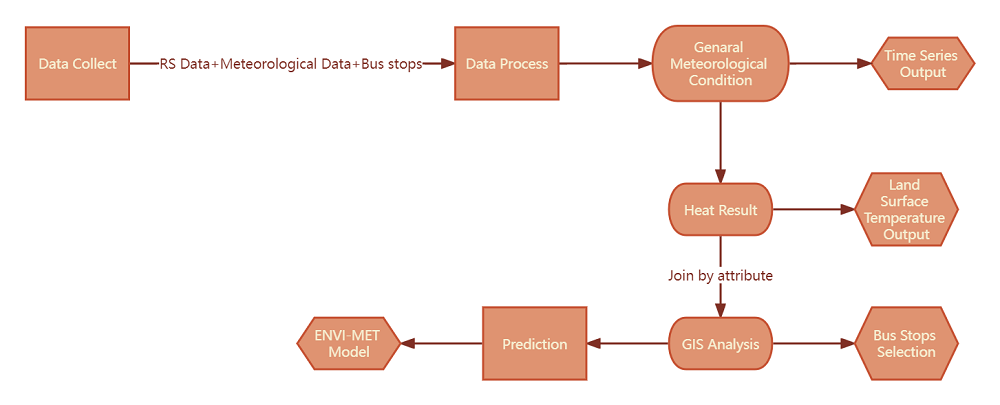
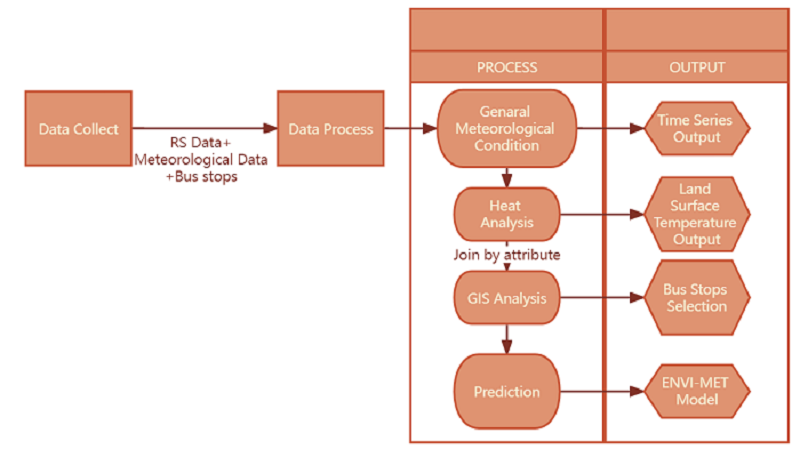
new

diff --git a/index.html b/index.html
@@ -4,7 +4,7 @@
     <title>Green Bus Stop Project</title>
     <meta charset="utf-8" />
     <meta name="author" content="" />
-    <script src="libs/header-attrs-2.17/header-attrs.js"></script>
+    <script src="libs/header-attrs-2.20/header-attrs.js"></script>
     <link href="libs/remark-css-0.0.1/default.css" rel="stylesheet" />
     <link href="libs/remark-css-0.0.1/default-fonts.css" rel="stylesheet" />
   </head>
@@ -177,17 +177,15 @@ Planting trees for some hot bus stops to provide shade for people
 
 ---
 # Methodology-Overall
+- Data
+&lt;img src="image/DATA.jpg" width="75%" style="display: block; margin: auto;" /&gt;
+- Process
 
-Data sets for detecting and classifying bus stops which have high temperature problem
-&lt;img src="image/DATA.jpg" width="70%" style="display: block; margin: auto;" /&gt;
-
-Progress
-&lt;img src="image/Process.jpg" width="80%" style="display: block; margin: auto;" /&gt;
+&lt;img src="image/Process.jpg" width="70%" style="display: block; margin: auto;" /&gt;
  
 ---
 # Methodology - General Meteorological condition
 .pull-left[
-- Data: 
 To get general condition: &lt;/br&gt;
 1. Use National Centers for Environmental Information time series data to get average/ highest temperature condition in Phoenix from year 2017 to 2022; &lt;/br&gt;
 2. Use National Centers for Environmental Information mapping data to get high heat distribution in Phoenix from year 2017 to 2022. 
@@ -208,7 +206,7 @@ Obtain every first day Landsat 8 data for each month from 2017 to 2022. Make sur
 4. Calculate the brightness temperature and land surface temperature: It is calculated using the radiance values from the thermal bands and the Planck's law.Then use the result and emissivity to get LST.
 ]
 .pull-right[
-&lt;img src="image/LST-Landsat-calcular-la-temperatura-de-superficie.jpg" width="80%" style="display: block; margin: auto;" /&gt;
+&lt;img src="image/LST-Landsat-calcular-la-temperatura-de-superficie.jpg" width="100%" style="display: block; margin: auto;" /&gt;
 Source: [GIScrack](https://giscrack.com/how-to-calculate-land-surface-temperature-with-landsat-8-images/) 
 ]
 ---
